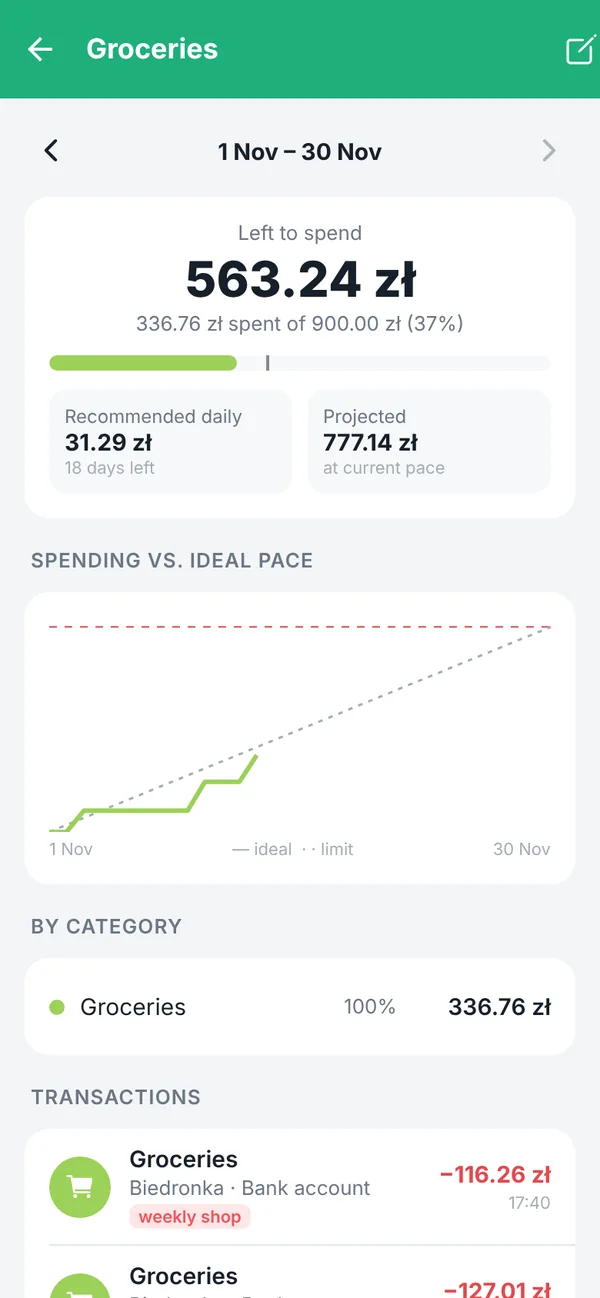
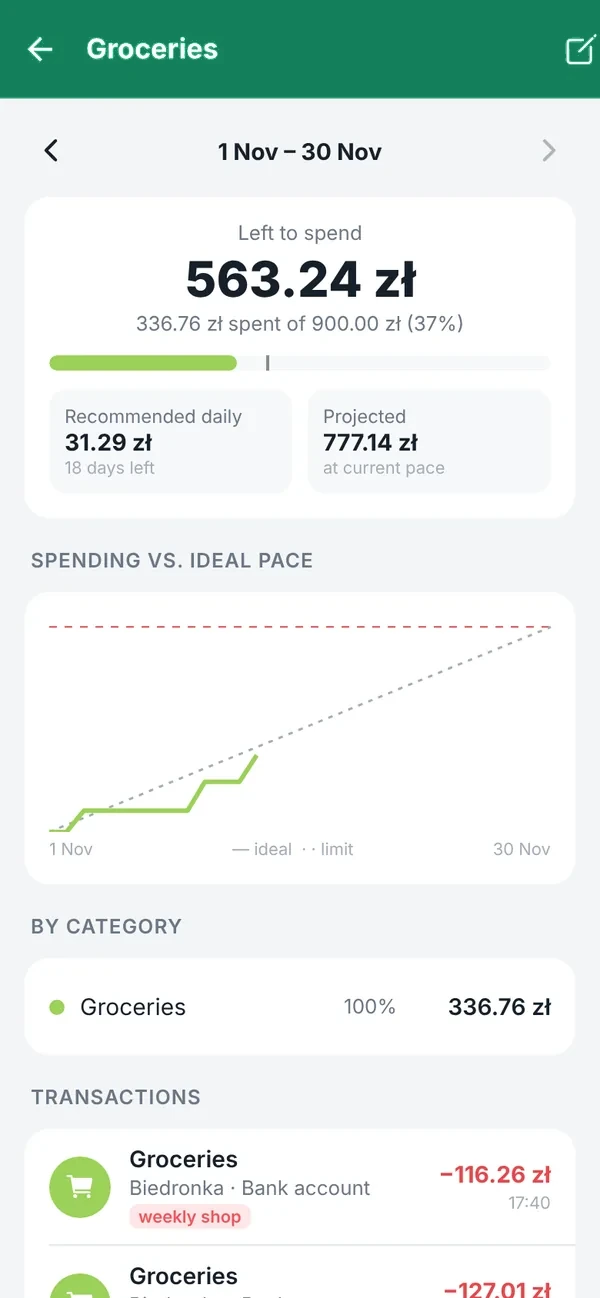
Show Kasa Budget's deeper green on its page
Kasa Budget's main colour changed from #1FAF7A to #13805A (readable white text).
The page now uses the new green for its buttons, accents and browser theme
colour, and the light-mode screenshots (and the light screens in the project
card image) show the new green. Dark-mode screens are unchanged, because the
app's dark mode keeps its own lighter green.

Claude-Session: https://claude.ai/code/session_01AsRC5PjXr5zZ87Z9fYuYaf

Changed region(s): [[0.0, 0.0, 1.0, 0.0924]]

diff --git a/kasa/index.html b/kasa/index.html
@@ -19,7 +19,7 @@
   <meta property="og:image:height" content="600">
   <meta property="og:image:alt" content="Kasa Budget app screens">
   <meta name="twitter:card" content="summary_large_image">
-  <meta name="theme-color" content="#1FAF7A" media="(prefers-color-scheme: light)">
+  <meta name="theme-color" content="#13805A" media="(prefers-color-scheme: light)">
   <meta name="theme-color" content="#0E1216" media="(prefers-color-scheme: dark)">
   <meta name="color-scheme" content="light dark">
   <link rel="icon" type="image/png" href="/images/favicon.png">
@@ -35,9 +35,9 @@
       --line:        #E3E7EC;
       --text:        #16202A;
       --muted:       #6B7785;
-      --brand:       #1FAF7A;
+      --brand:       #13805A;
       --on-brand:    #FFFFFF;
-      --accent-text: #138A5F;
+      --accent-text: #13805A;
       --frame:       #16202A;
       --shadow:      0 24px 60px rgba(22, 32, 42, 0.16);
       --radius-card: 18px;

diff --git a/kasa/privacy-policy/index.html b/kasa/privacy-policy/index.html
@@ -18,7 +18,7 @@
       --line:    #E3E7EC;
       --text:    #16202A;
       --muted:   #56616E;
-      --accent:  #138A5F;
+      --accent:  #13805A;
       --radius-card: 18px;
     }
     @media (prefers-color-scheme: dark) {
